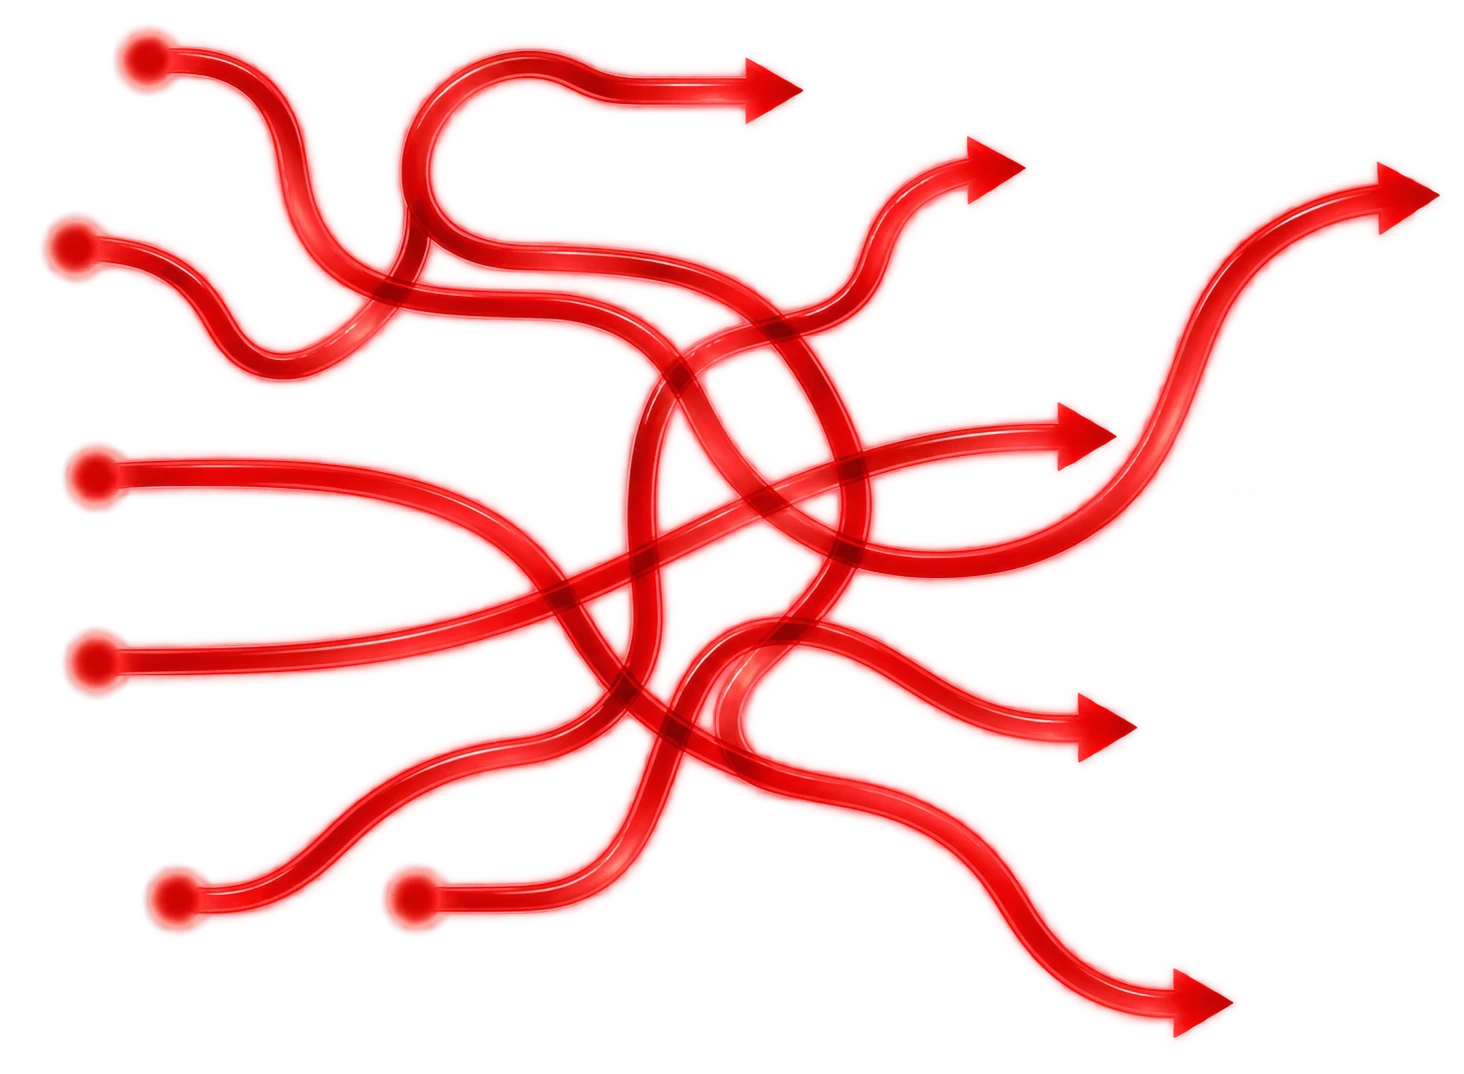
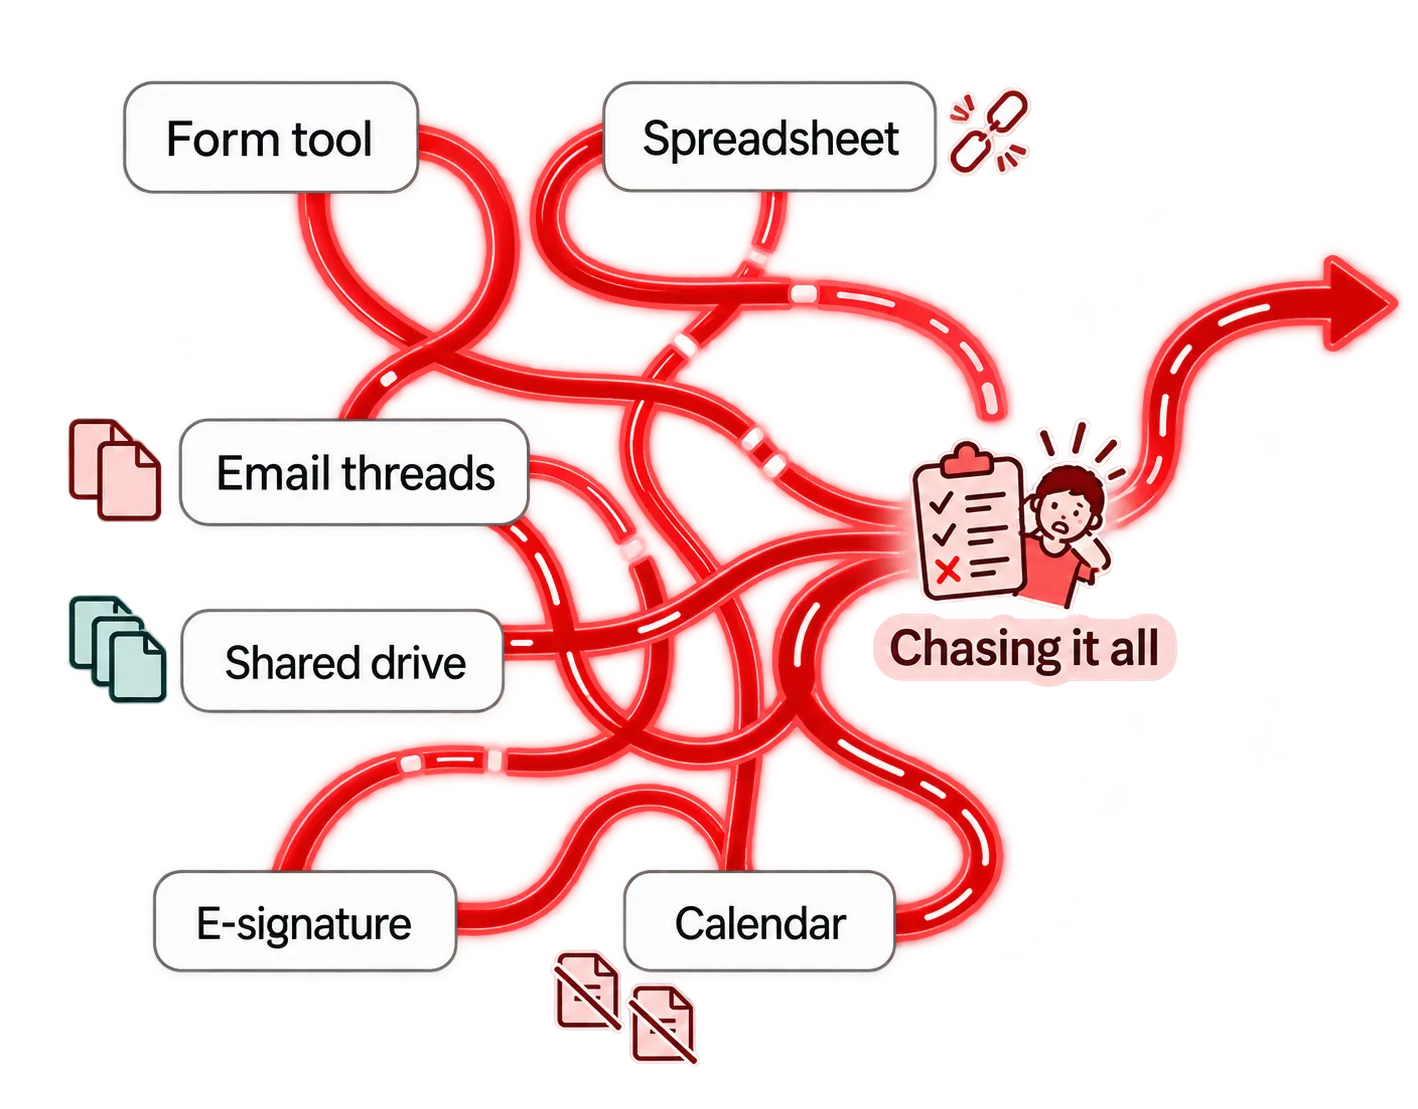
Use the artwork you drew, and let it lead
The labels, the character, "Outcome Platform" and the three signed
outcomes are inside the pictures now, so the HTML labels that were
positioned over the plain versions are gone.

That changes what they are. A picture with words in it is not decoration,
so each carries alt text saying what it says — otherwise a screen reader
gets a section whose entire right half is silence, and the six tools the
copy mentions are named nowhere it can reach.

They arrived at 1.15MB and 1.01MB. Re-encoded to 284KB and 223KB with a
half-width copy each, because a phone pulling a 2043px render to show it
at 350 is most of the page's weight for none of its meaning.

Layout, from the marked-up screenshot: artwork top-aligned rather than
centred, the quote dropped from 18px to 15.5px, and "Get answers
instantly, not in forty minutes." wrapped to two lines.

The copy column is 460px and not less. Below that the headline breaks
after "a" and strands "form." on a line of its own — and the artwork
cannot simply take the space, because its words are baked in and do not
reflow. Making them readable means making the picture bigger. That is the
standing cost of text in an image, and it is why the two columns are
balanced where they are rather than wherever looked best.

One consequence of skipping Tailwind's preflight showed up here: a <ul>
keeps its browser bullet, so the outcome list needed `list-none`.

diff --git a/web/app/page.tsx b/web/app/page.tsx
@@ -3,7 +3,6 @@ import { Footer } from '@/components/Footer';
 import { Nav } from '@/components/Nav';
 import {
   ArrowRight,
-  BrokenLink,
   Clock,
   DownArrow,
   FlowArrow,
@@ -21,24 +20,6 @@ import {
 } from '@/components/icons';
 
 const TOOLCHAIN = ['Form tool', 'Spreadsheet', 'Email threads', 'Shared drive', 'E-signature', 'Calendar'];
-
-/*
- * Where each label sits on the tangle, as a percentage of the artwork.
- *
- * Percentages of the plate, which carries the image's own aspect ratio — so
- * they hold at every width rather than only at the one this was placed at.
- */
-const TOOLS = [
-  { label: 'Form tool', x: '26%', y: '5%' },
-  { label: 'Spreadsheet', x: '68%', y: '5%' },
-  { label: 'Email threads', x: '15%', y: '38%' },
-  { label: 'Shared drive', x: '14%', y: '55%' },
-  { label: 'E-signature', x: '17%', y: '88%' },
-  { label: 'Calendar', x: '62%', y: '88%' },
-];
-
-/* The other end of the same picture: what comes out when one process runs it. */
-const OUTCOMES = ['Employee onboarded', 'Expense approved', 'Member registered'];
 
 const BUILT = [
   { Icon: IconData, title: 'Data model', copy: 'Typed fields, constraints, and a sensitivity class on every one of them.' },
@@ -162,92 +143,64 @@ export default function Home() {
             {/*
               * The tangle, and what replaces it.
               *
-              * Tailwind, wired to this project's tokens — so `bg-paper` is the
-              * page's own paper and there is no `blue-500` to reach for.
+              * The words are inside the artwork now — the tool names, "Chasing
+              * it all", "Outcome Platform", the three signed outcomes. That
+              * makes these pictures of text, not decoration, so each one
+              * carries alt text that says what it says. Without it a screen
+              * reader gets a section whose entire right half is silence, and
+              * the six tools the copy mentions are named nowhere it can reach.
               *
-              * Both plates carry `aspect-[…]` matching their image's own ratio.
-              * The labels are placed as percentages of the plate, and without a
-              * fixed ratio `object-contain` letterboxes: a percentage of the
-              * box stops being a percentage of the picture and the labels slide
-              * off the lines at some widths and not others.
-              *
-              * The images are decorative. Every word in them is in the copy or
-              * in the labels on top.
+              * Served at half width below 900px: a phone pulling a 2043px
+              * render to show it at 350 is most of the page's weight for none
+              * of its meaning.
               */}
-            <div className="band__art grid items-center gap-8 xl:grid-cols-[1.15fr_1fr]">
-              <div className="relative mx-auto aspect-[1464/1074] w-full max-w-[560px]">
+            {/*
+              * The green half gets the wider column.
+              *
+              * Its words are inside the picture, so they do not reflow — at the
+              * narrower share "Outcome Platform" and each "Signed" rendered at
+              * about seven pixels. Text in artwork can only be made readable by
+              * making the artwork bigger, which is the cost of baking it in.
+              */}
+            <div className="band__art grid items-start gap-7 xl:grid-cols-[1fr_1.2fr]">
+              <div className="mx-auto w-full max-w-[520px]">
                 {/* eslint-disable-next-line @next/next/no-img-element */}
                 <img
                   src="/images/form-chaos-red.webp"
-                  alt=""
-                  width={1464}
-                  height={1074}
+                  srcSet="/images/form-chaos-red@half.webp 709w, /images/form-chaos-red.webp 1418w"
+                  sizes="(max-width: 900px) 92vw, 560px"
+                  width={1418}
+                  height={1109}
                   loading="lazy"
-                  className="absolute inset-0 h-full w-full object-contain"
+                  className="block h-auto w-full"
+                  alt="Six tools — a form tool, a spreadsheet, email threads, a shared drive, e-signature and a calendar — joined by tangled red arrows that cross and double back, ending at one person chasing it all."
                 />
-                {TOOLS.map((t) => (
-                  <span
-                    key={t.label}
-                    style={{ left: t.x, top: t.y }}
-                    className="absolute -translate-x-1/2 -translate-y-1/2 whitespace-nowrap rounded-lg border border-line bg-white px-3 py-1.5 text-[12.5px] text-ink-soft shadow-[0_3px_10px_rgba(20,24,22,0.08)]"
-                  >
-                    {t.label}
-                  </span>
-                ))}
-                <span className="absolute left-[89%] top-[52%] flex -translate-x-1/2 -translate-y-1/2 flex-col items-center gap-1.5">
-                  <span className="flex h-10 w-10 items-center justify-center rounded-xl bg-red-pale text-red-text">
-                    <Warn />
-                  </span>
-                  <span className="whitespace-nowrap text-[12.5px] font-medium text-ink">Chasing it all</span>
-                </span>
               </div>
 
               <div>
-              <blockquote className="pullquote">
-                <p>“Where is this one, and who has it?” should not be a question that takes forty minutes to answer.</p>
-              </blockquote>
+                <blockquote className="pullquote">
+                  <p>
+                    “Where is this one, and who has it?” should not be a question that takes forty minutes to answer.
+                  </p>
+                </blockquote>
 
-              <p className="mt-6 text-[15.5px] font-medium leading-snug text-ink">
-                Get answers instantly, not in forty minutes.
-              </p>
+                <p className="mt-5 max-w-[210px] text-[14px] font-medium leading-[1.3] text-ink">
+                  Get answers instantly, not in forty minutes.
+                </p>
 
-              {/* Stacked, not side by side. Sharing the column with the cards
-                  squeezed the flow to a width where nothing in it read. */}
-              <div className="mt-4">
-                <div className="relative aspect-[2000/667] w-full">
+                <div className="mt-4">
                   {/* eslint-disable-next-line @next/next/no-img-element */}
                   <img
                     src="/images/outcome-flow-green.webp"
-                    alt=""
-                    width={2000}
-                    height={667}
+                    srcSet="/images/outcome-flow-green@half.webp 1021w, /images/outcome-flow-green.webp 2043w"
+                    sizes="(max-width: 900px) 92vw, 46vw"
+                    width={2043}
+                    height={770}
                     loading="lazy"
-                    className="absolute inset-0 h-full w-full object-contain"
+                    className="block h-auto w-full"
+                    alt="Three inputs converging on one outcome platform and leaving as three finished, signed results: employee onboarded, expense approved, member registered."
                   />
-                  {/* The label sits under the mark, not on it — over the block
-                      it was dark text on a dark square. */}
-                  <span className="absolute left-1/2 top-1/2 flex -translate-x-1/2 -translate-y-1/2 items-center justify-center">
-                    <span className="h-8 w-8 rounded-lg bg-green shadow-[0_2px_8px_rgba(20,102,63,0.35)]" />
-                  </span>
-                  <span className="absolute left-1/2 top-[calc(50%+26px)] -translate-x-1/2 whitespace-nowrap text-[11.5px] font-medium text-ink">
-                    One process
-                  </span>
                 </div>
-
-                <ul className="mt-4 grid gap-2 sm:grid-cols-3">
-                  {OUTCOMES.map((o) => (
-                    <li
-                      key={o}
-                      className="flex items-start gap-2 rounded-lg border border-line bg-white px-3 py-2 text-[11.5px] leading-tight text-ink-soft shadow-[0_3px_10px_rgba(20,24,22,0.07)]"
-                    >
-                      <span className="mt-px flex h-3.5 w-3.5 shrink-0 items-center justify-center rounded-full bg-green text-white">
-                        <Tick />
-                      </span>
-                      {o}
-                    </li>
-                  ))}
-                </ul>
-              </div>
               </div>
             </div>
           </div>

diff --git a/web/app/globals.css b/web/app/globals.css
@@ -656,19 +656,33 @@ html {
   flex-shrink: 0;
 }
 
+/*
+ * The complaint, tinted like one.
+ *
+ * It was a white card with a grey border, indistinguishable from every other
+ * card on the page. In the design it sits in the red family — it is the
+ * sentence the tangle beside it causes, and colour is what says so.
+ */
 .pullquote {
-  margin-top: 22px;
-  padding: 18px;
-  border-radius: 10px;
-  background: var(--white);
-  border: 1px solid var(--line);
+  margin-top: 0;
+  padding: 16px 18px;
+  border-radius: 12px;
+  background: var(--red-wash);
+  border: 1px solid var(--red-border);
 }
 
+/*
+ * Smaller than the body copy, not larger.
+ *
+ * It was 18px display serif in a narrow column, which set four or five words
+ * a line and made a single sentence look like a paragraph. In the design it
+ * is a quiet aside beside the picture, not a headline.
+ */
 .pullquote p {
   margin: 0;
   font-family: var(--font-display), Georgia, serif;
-  font-size: 18px;
-  line-height: 1.45;
+  font-size: 15.5px;
+  line-height: 1.5;
   color: var(--ink);
 }
 
@@ -1999,12 +2013,29 @@ html {
     flex: 1 1 660px;
   }
 
+  /*
+   * The artwork leads here.
+   *
+   * The copy had 468px and an 88px gutter, leaving the two pictures about
+   * 316px and 380px — and their words are baked into them, so at that size
+   * "Outcome Platform" and each "Signed" were a few pixels tall. Text inside
+   * artwork cannot reflow; the only way to make it readable is to make the
+   * artwork bigger, which is the standing cost of baking it in.
+   *
+   * 460px, not less: below it the headline breaks after "a" and strands
+   * "form." on its own line. That is the floor this column has.
+   */
   .band__grid {
-    gap: 88px;
+    gap: 48px;
   }
 
   .band__copy {
-    flex: 0 0 468px;
+    flex: 0 0 460px;
+  }
+
+  .band__art {
+    flex: 1 1 auto;
+    min-width: 0;
   }
 
   .console__grid {
